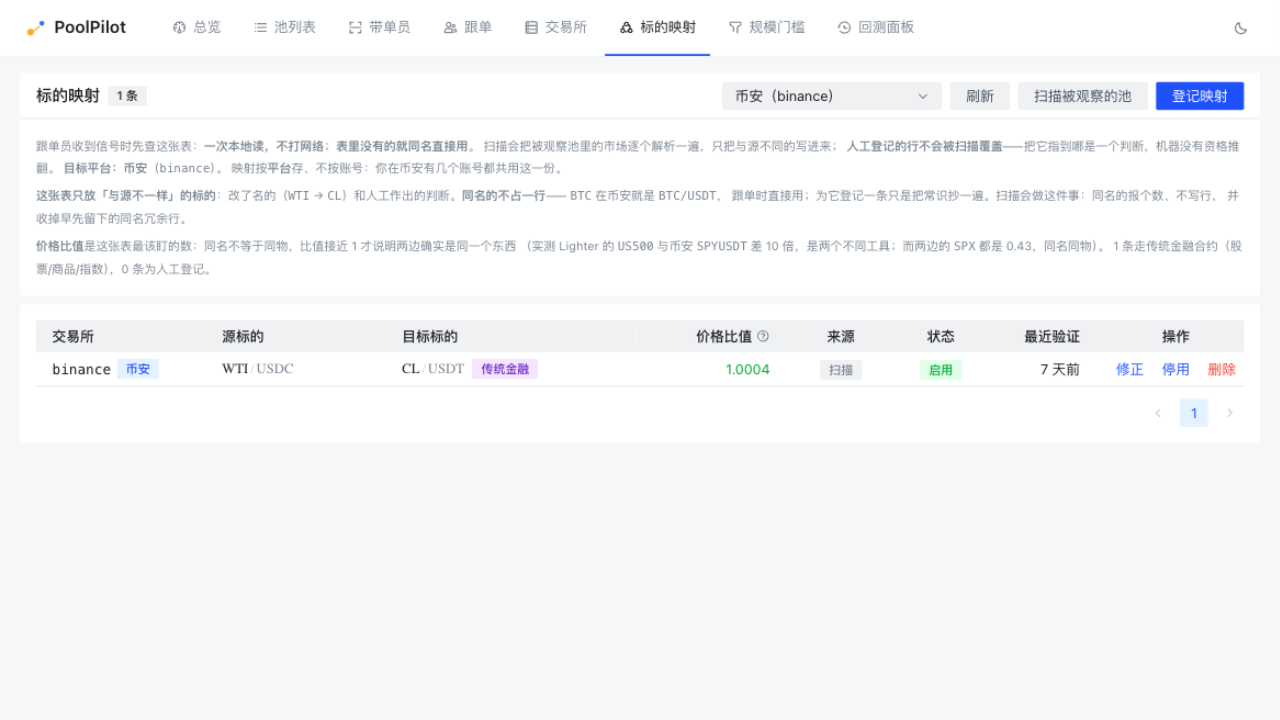
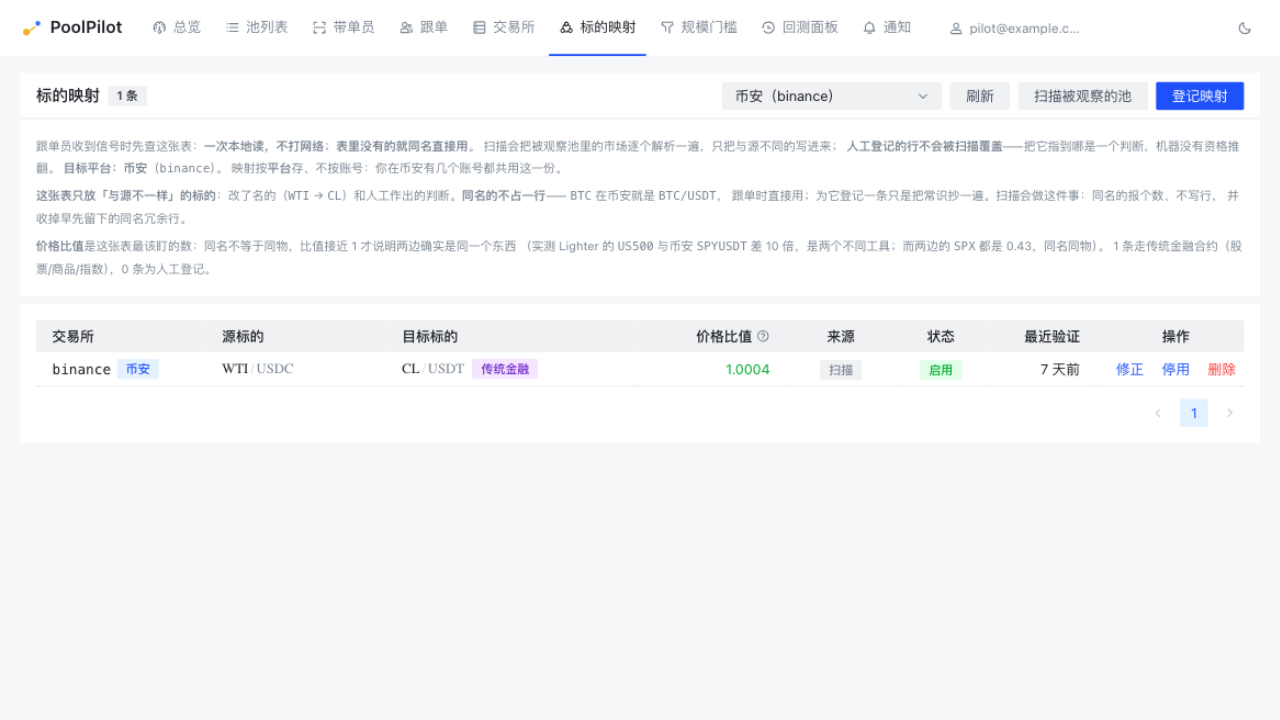
README：登录与 MFA、通知两节；十五张截图重拍
顶栏这一轮多了「通知」与账号菜单，原有十张截图全部作废，一并重拍。
新增五张：登录、注册（含重发倒计时）、绑定验证器（二维码 + 手动密钥 + 复制）、
通知通道、投递记录（记录那张里正好两种结果各一条：仅写日志与失败，失败原因就是 SMTP 的原话）。

截图全部取自隔离栈（真库副本 + 临时端口）。通知那两张用的是脱敏通道
（smtp.example.com / notify@example.com）——仓库里的图不该出现任何真实邮箱。

仍有一张没重拍：11-live-detail.png（库里没有实盘跟单员，为截图建一个会真下单）。

Changed region(s): [[0.0, 0.0306, 0.7188, 0.0917], [0.75, 0.0306, 0.8438, 0.0611]]

diff --git a/README.md b/README.md
@@ -32,6 +32,8 @@
 | 标的映射 | 跨平台同一资产的例外表（默认同名直接使用），以两侧价格比值判断是否同一物 |
 | 规模门槛 | 给定本金，逐市场算出理想跟单规模、所需本金与敞口放大倍数 |
 | 回测 | 以池的净值序列为基准，按往返成本与日均交易次数做情景推演，并与「直接入池」对比 |
+| 登录与 MFA | 注册（邮箱验证码）后强制绑定验证器；此后每次登录都要六位码。详见 [docs/AUTH.md](docs/AUTH.md) |
+| 通知 | 通道（SMTP）/ 样板（每类通知说什么、由哪条通道发）/ 投递记录（每次发了什么、成没成） |
 
 池的收益指标同时给出**上游上报值**与**本机按净值序列实算值**，两者口径不同，页面上并列显示、不混用。
 
@@ -45,6 +47,9 @@
   跟单摩擦按给定参数假设；池的净值序列本身来自上游，是真实数据。
 - **凭据以明文保存在本机数据库**（未加密），建议只放权限最小、可随时吊销的密钥；
   配置本身不会触发交易，须由实盘跟单员引用。详见 [docs/EXCHANGES.md](docs/EXCHANGES.md)。
+- **整个工作台要登录，且登录必须带 MFA（TOTP）**。没有"关闭 MFA"的开关——
+  库里放着明文凭据，入口这一关就不该只有口令。**没有找回密码/解绑验证器的流程**：
+  忘了就删掉那条账号重来（见 [docs/AUTH.md](docs/AUTH.md) 第六节）。
 
 ## 界面
 
@@ -77,6 +82,28 @@
 带单员列表按池给出一条观察记录（累计信号数、订阅数）。跟单列表每个跟单员一张卡片，
 显示本金、收益率或账户余额、持仓摘要与成交/跳过计数。详情页两种模式共用同一版式：
 概览、持仓、流水；纸面另有权益曲线与执行成本测量，实盘另有杠杆、强平价与手动平仓。
+
+### 登录与 MFA
+
+![登录](docs/images/12-login.png)
+
+![注册](docs/images/13-register.png)
+
+![绑定验证器](docs/images/14-mfa-bind.png)
+
+登录分两步：先验邮箱与口令，再验验证器里的六位码。首次登录会把密钥绑到账号上
+（二维码在前端根据服务端给的 `otpauth://` 生成，扫不了也能手动输入密钥）；
+此后每次登录都走第二步。注册要邮箱验证码，注册完**不自动登录**——第二道因子是绕不过去的。
+
+### 通知
+
+![通知通道](docs/images/15-notifications.png)
+
+![投递记录](docs/images/16-notification-logs.png)
+
+注册验证码由这里配置的通道发出：**提供商**是通道（现在只有邮箱 / SMTP，可配多条），
+**样板**决定每类通知说什么、由哪条通道发，**记录**保留每一次投递的实际内容与结果——
+通道没配好时标成「仅写日志」（内容进服务端日志，界面如实说明），配置有误时标成「失败」并附上 SMTP 的原话。
 
 ### 配置与工具
 
